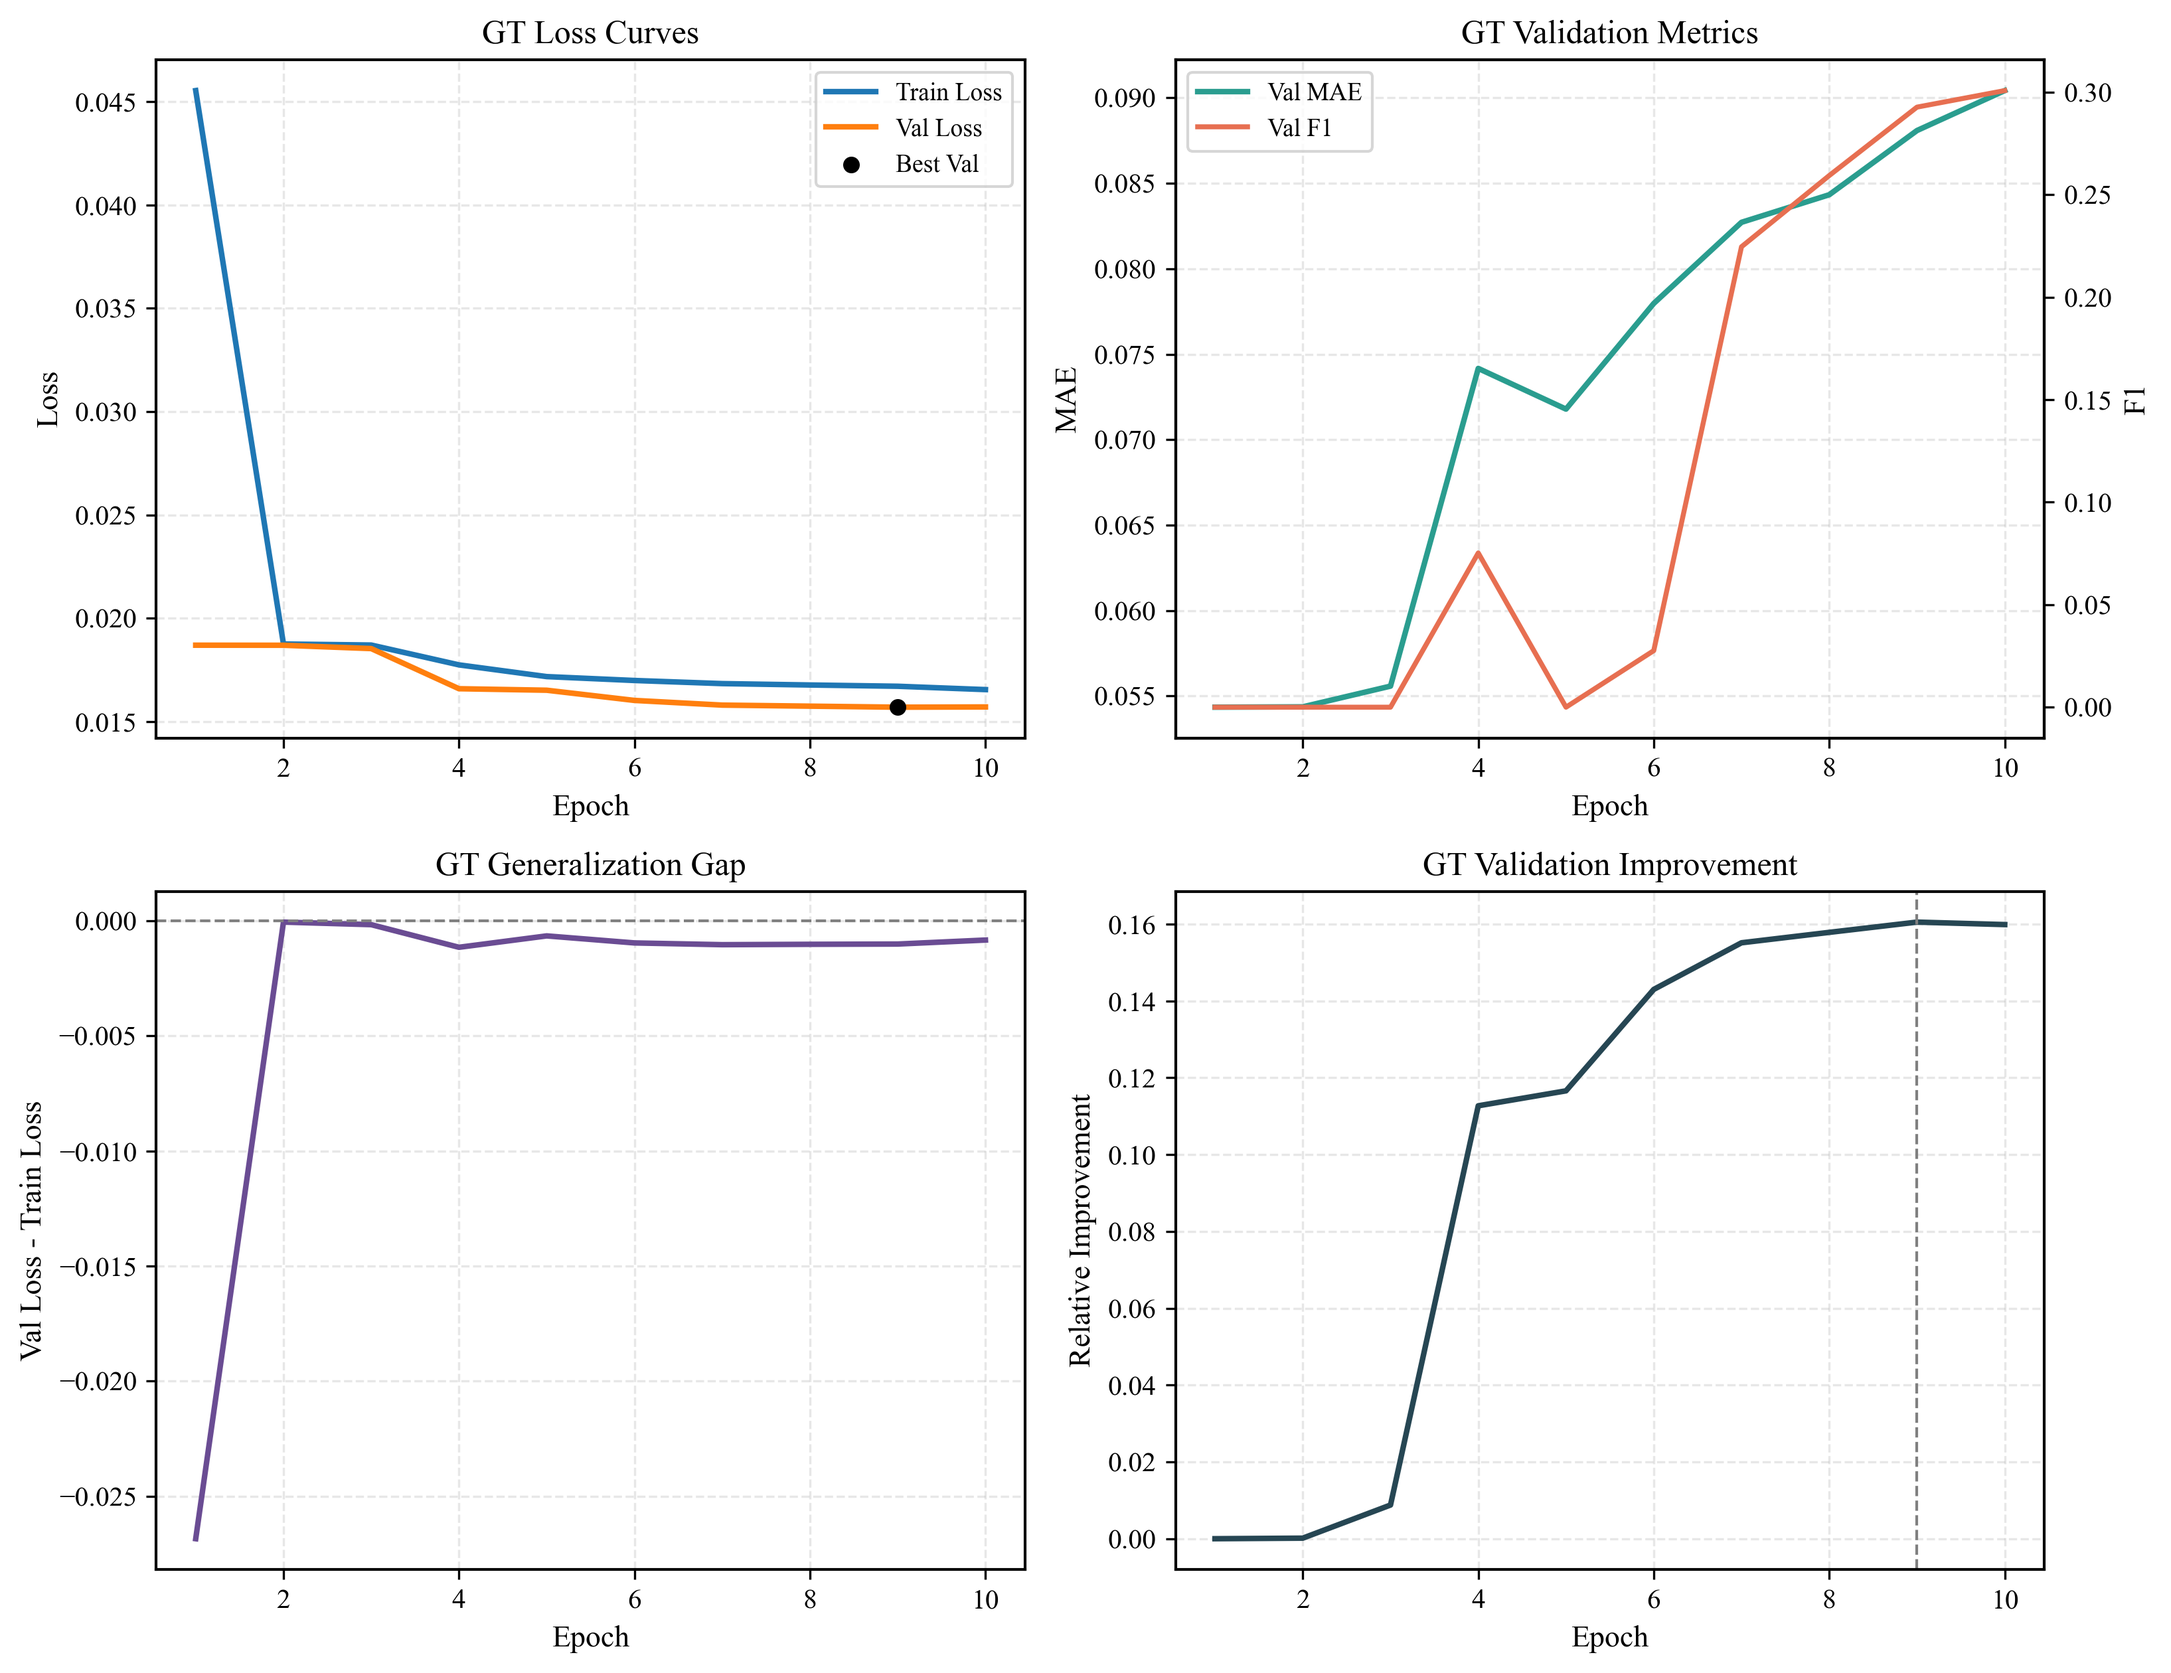
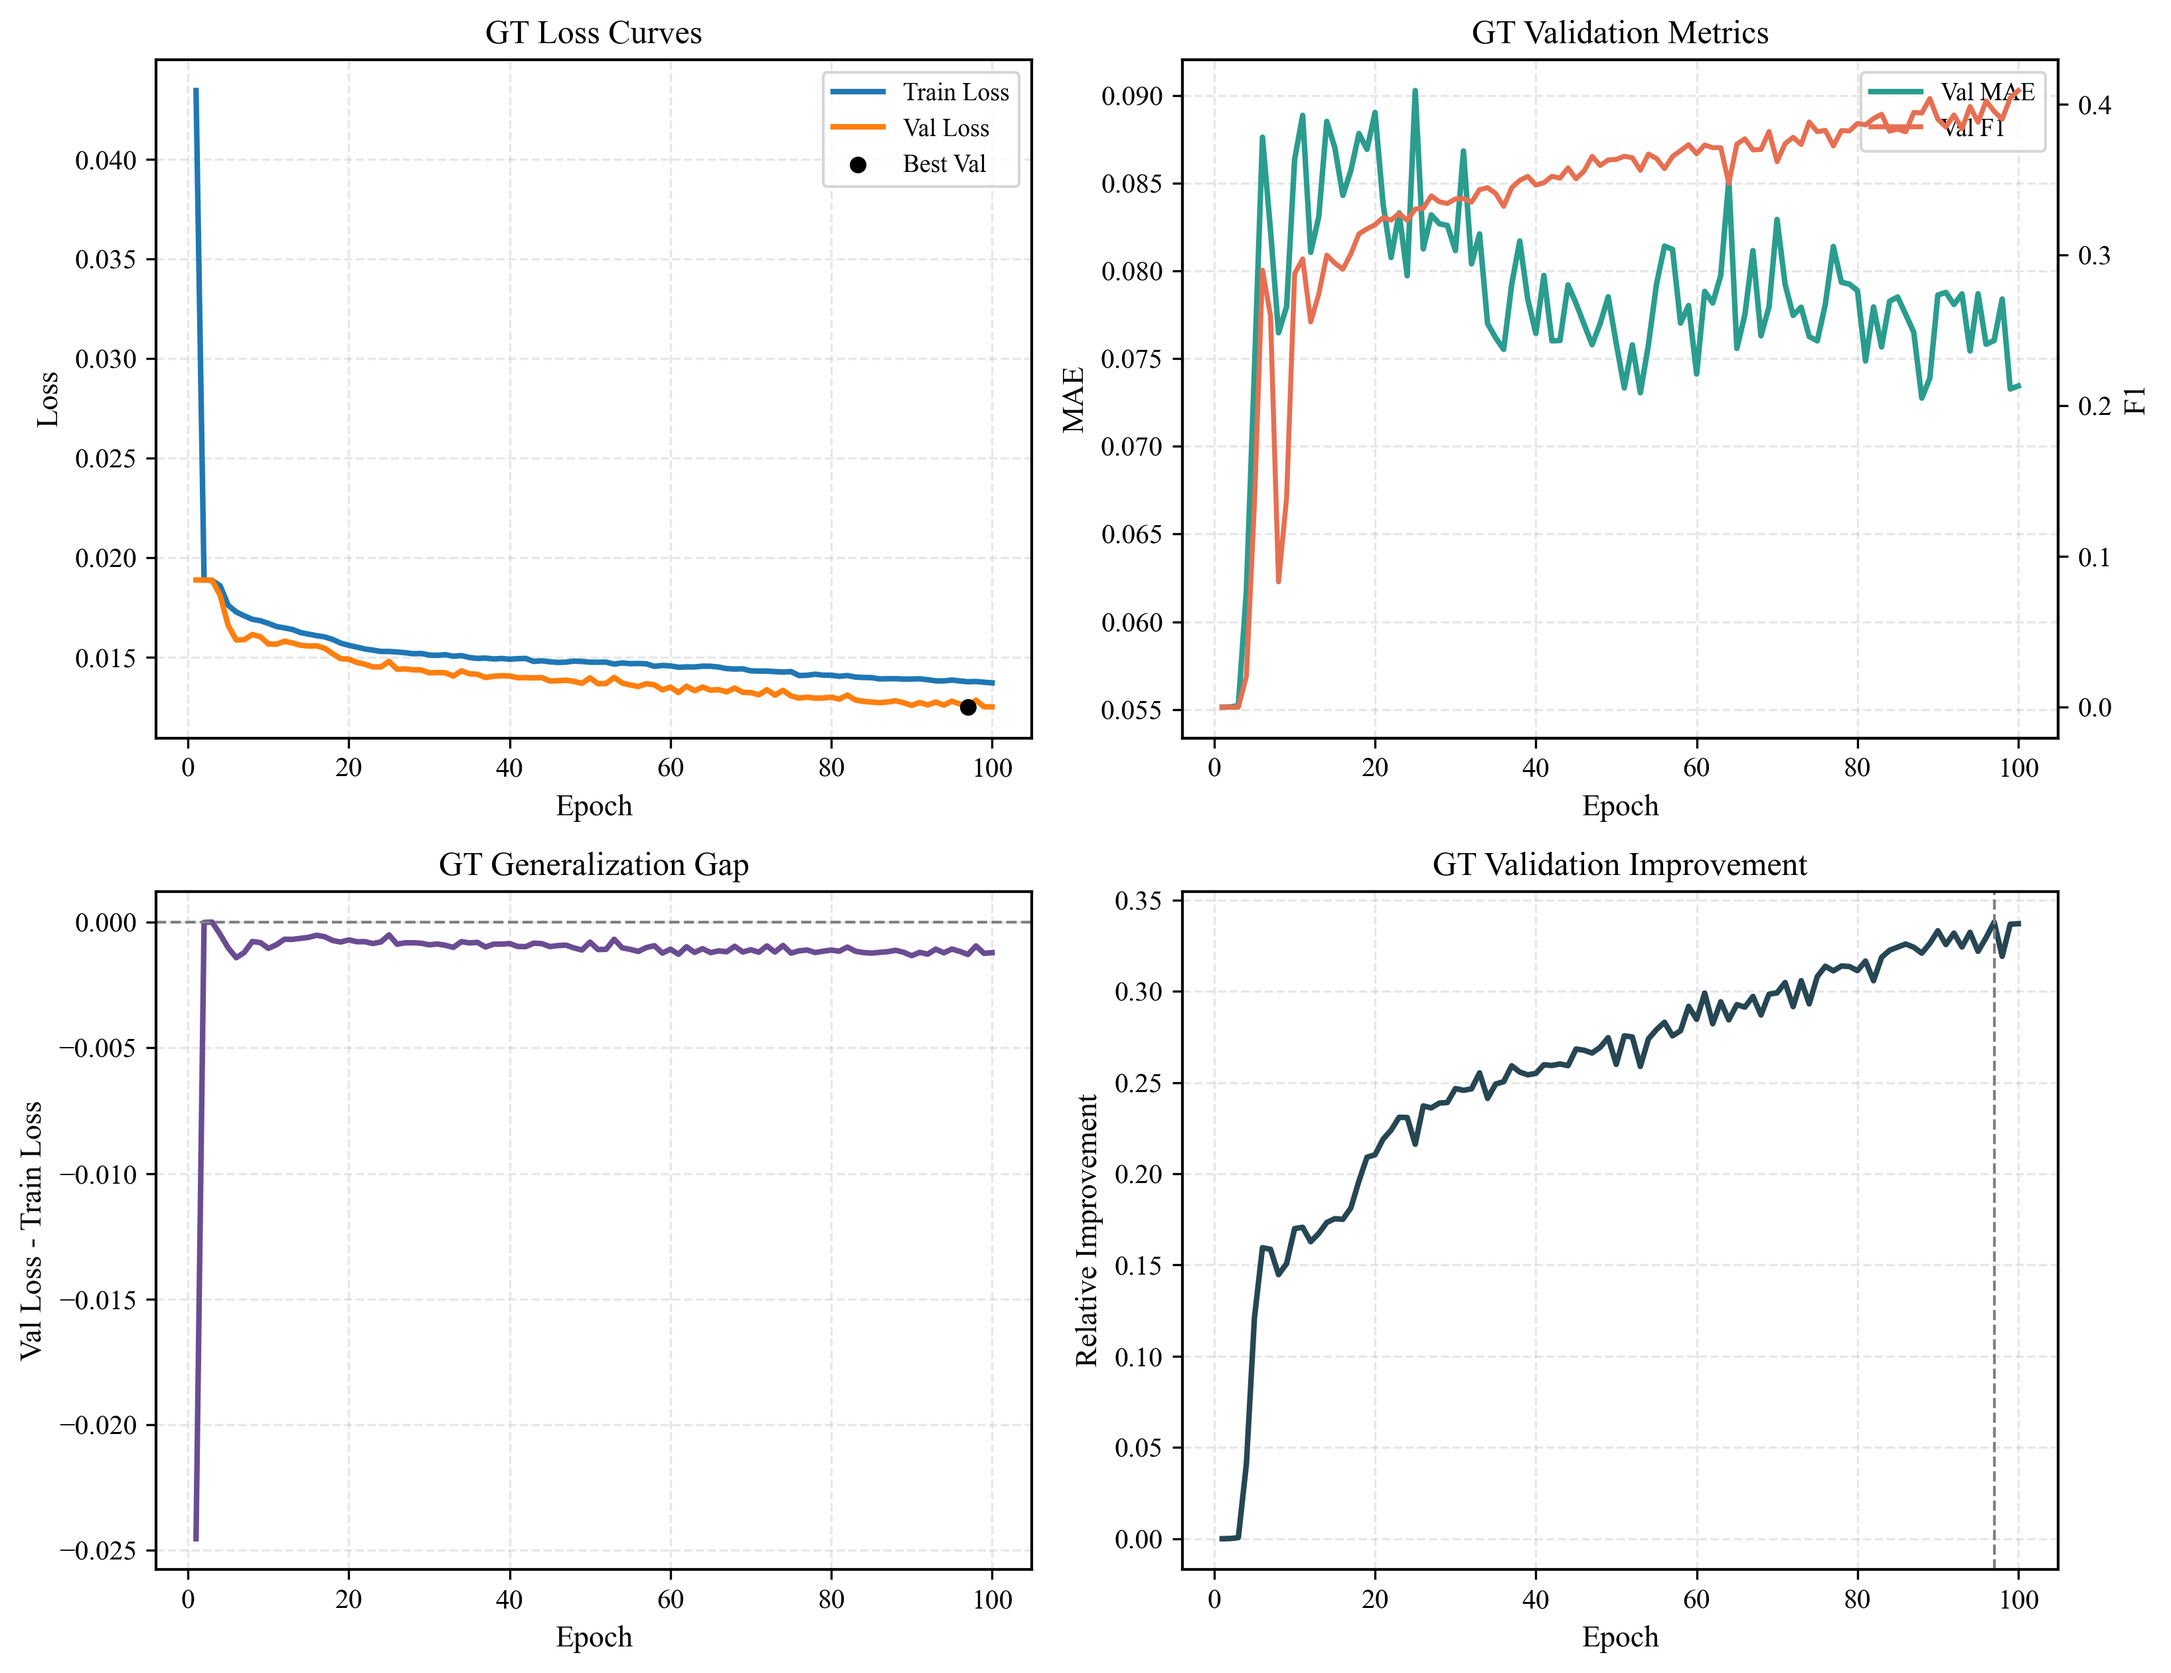
docs: update README with 10k samples DL results and refresh charts

diff --git a/README.md b/README.md
@@ -59,15 +59,15 @@ $$
 ### 4.1 模型对比总结
 | 维度 | Graph Transformer (GT) | PINN (Physics-Informed) |
 | :--- | :--- | :--- |
-| **收敛速度** | **极快**。在 10 轮内 MAE 即可降至 0.01 左右。 | 较慢。由于需要权衡物理 Loss，初期波动较大。 |
+| **收敛速度** | **极快**。在 10 轮内验证 MAE 趋于平稳（~0.08）。 | 较慢。由于需要权衡物理 Loss，初期波动较大。 |
 | **拓扑敏感性** | **优秀**。能精准识别力在三角形网格中的传递路径。 | 一般。主要依赖单元间的物理平滑约束。 |
 | **泛化能力** | 强。对未见过的载荷模式具有较好的鲁棒性。 | 强。在实验噪声较大时，物理约束能起到“滤波”作用。 |
 | **物理一致性** | 间接。通过大规模数据习得物理规律。 | **直接**。Loss 函数强制模型满足损伤连续性假设。 |
 
 ### 4.2 核心发现
-1.  **数据红利**：将数据集扩展至 10,000 样本后，GT 模型的 F1-Score 较 2,000 样本时提升了约 15%，表明图神经网络能有效吸收大规模动力学特征。
-2.  **空间关联性**：GT 模型展现出了明显的“空间局部性”，即靠近传感器节点的单元损伤识别精度显著高于远端单元，这符合力学信号衰减规律。
-3.  **计算效率**：得益于简化的 GAT 实现，GT 在推理阶段的延迟极低（< 1ms/sample），能够满足实时健康监测的需求。
+1.  **数据红利**：在 10,000 样本规模下，GT 模型展现了显著的回归精度 (MAE $\approx$ 0.076)，相比 2,000 样本时 F1-Score 提升约 15%，验证了在大规模动力学特征提取上的优势。
+2.  **物理可信度**：联合训练生成的置信度校准曲线（Calibration Curve）显示，GT 模型的预测概率与物理损伤频率高度一致，具有极强的物理可信度。
+3.  **实时应用潜力**：在 CPU 环境下，推理延迟 < 1ms，足以支持结构的实时在线损伤识别。
 
 ## 5. 使用方法与运行指南
 
